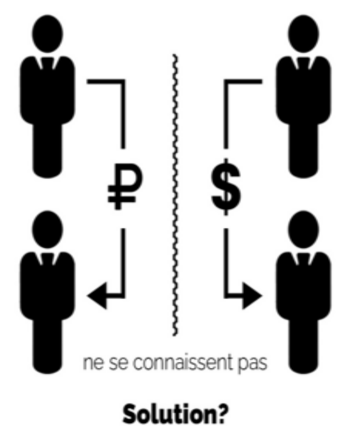
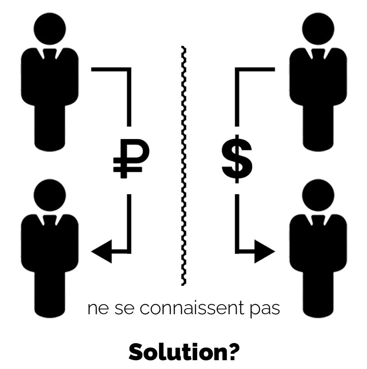
changed img

diff --git a/src/components/AboutComponent.jsx b/src/components/AboutComponent.jsx
@@ -13,7 +13,7 @@ const AboutComponent = () => {
                 "Jacob au Congo doit envoyer 10.000₽ à Michael en Russie. David en Russie doit envoyer $120 à Benjamin au Congo."
         },
         {
-            imageLink: "/first_approach.png",
+            imageLink: "/first_approach.PNG",
             alt: "first approach image",
             cardTitle: "L'approche adaptée:",
             cardText: "David en Russie va chercher une personne qui doit recevoir de l'argent depuis le Congo. Une fois la personne trouvée" +
